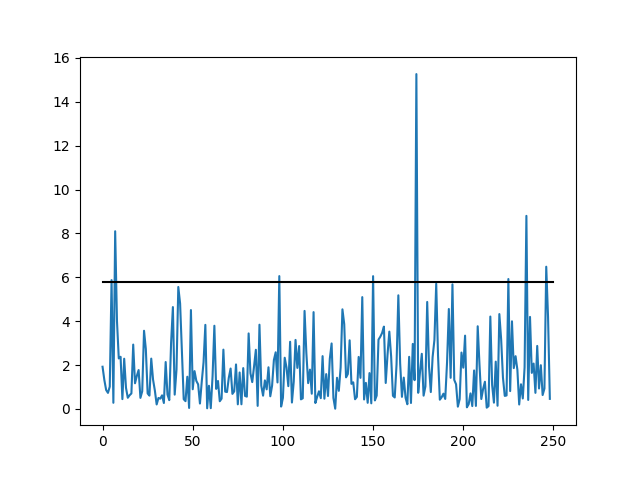
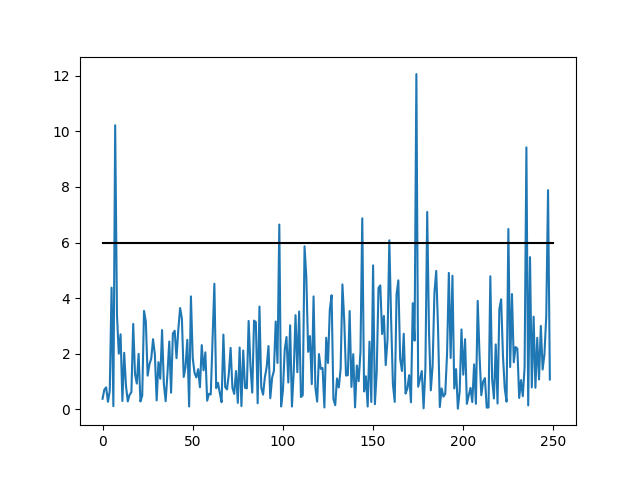
Fix RMES error

diff --git a/src/ukf.cpp b/src/ukf.cpp
@@ -23,13 +23,13 @@ UKF::UKF() {
   
   // initial covariance matrix
   P_ = MatrixXd(5, 5);
-  P_ <<  0.025, 0, 0, 0, 0,
-             0, 0.025, 0, 0, 0,
-             0, 0, 1, 0, 0,
-             0, 0, 0, 1, 0,
-             0, 0, 0, 0, 1;
+  P_ <<  0.0225, 0, 0, 0, 0,
+             0, 0.0225, 0, 0, 0,
+             0, 0, 4, 0, 0,
+             0, 0, 0, 0.09, 0,
+             0, 0, 0, 0, 0.04;
   // Process noise standard deviation longitudinal acceleration in m/s^2
-  std_a_ = 0.2;
+  std_a_ = 2.;
 
   // Process noise standard deviation yaw acceleration in rad/s^2
   std_yawdd_ = 0.2;
@@ -106,12 +106,12 @@ void UKF::ProcessMeasurement(MeasurementPackage meas_package) {
 	  float rho = meas_package.raw_measurements_[0];
 	  float phi = meas_package.raw_measurements_[1];
 	  float rho_dot = meas_package.raw_measurements_[2];
-	  x_ << rho * cos(phi), rho * sin(phi), 5., 1.57, 2.;
+	  x_ << rho * cos(phi), rho * sin(phi), 0, 0, 0;
     }else{
 	  if(!use_laser_)
         return;		  
       x_ << meas_package.raw_measurements_[0], 
-	            meas_package.raw_measurements_[1], 5., 1.57, 2.;
+	            meas_package.raw_measurements_[1], 0, 0, 0;
     }   
 	
 	is_initialized_ = true;

diff --git a/src/tools.cpp b/src/tools.cpp
@@ -29,5 +29,6 @@ VectorXd Tools::CalculateRMSE(const vector<VectorXd> &estimations,
 	rmse += residual;
   }
   rmse /= estimations.size();
-  return rmse;
+  
+  return rmse.array().sqrt();
 }
